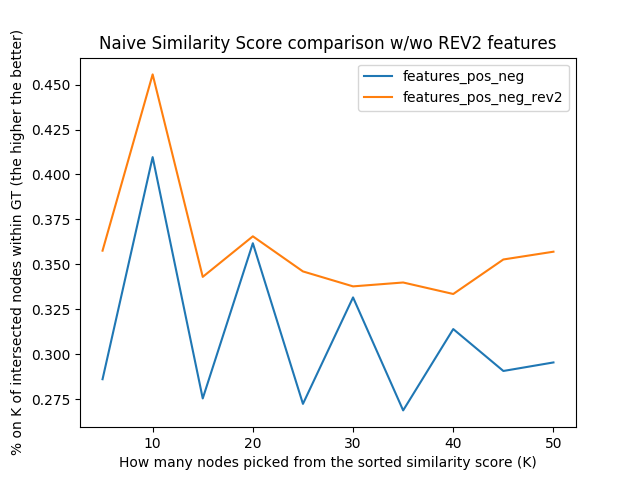
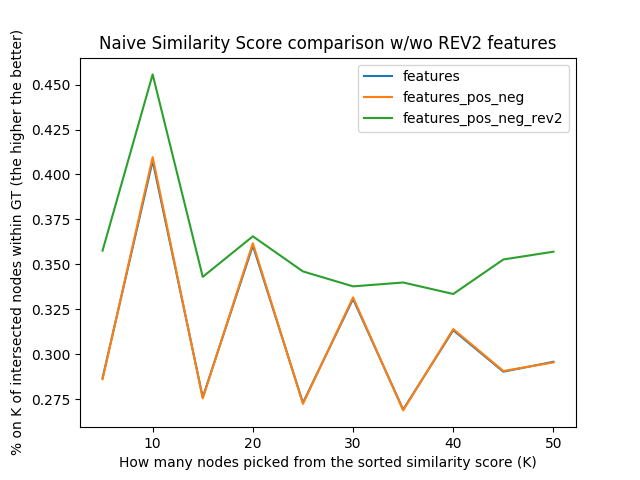
update more figures

diff --git a/analysis_sim_scores.py b/analysis_sim_scores.py
@@ -5,7 +5,7 @@ import numpy as np
 import networkx_utils as utils
 
 network = "alpha"
-all_features = ["features_pos_neg", "features_pos_neg_rev2"]
+all_features = ["features","features_pos_neg", "features_pos_neg_rev2"]
 
 N = [5,10,15,20,25,30,35,40,45,50]
 gt_user_types = ["good","bad"]
@@ -41,7 +41,11 @@ def plot_features():
                 feature_scores[n] = [scores]
 
     # legends = ["L2 Similar %","Cosine Similarity %"]
-    utils.plotSimScore(N, feature_scores.values(), all_features, "How many nodes picked from the sorted similarity score (K)", "% on K of intersected nodes within GT (the higher the better)", "Naive Similarity Score comparison w/wo REV2 features", "./diagram/naive_sim_score_analysis.png")
+    utils.plotSimScore(N, feature_scores.values(), all_features,
+                       "How many nodes picked from the sorted similarity score (K)",
+                       "% on K of intersected nodes within GT (the higher the better)",
+                       "Naive Similarity Score comparison w/wo REV2 features",
+                       "./diagram/naive_sim_score_analysis.png")
     print feature, gt_user_type, scores, N
 
 
@@ -73,7 +77,10 @@ def plot_full():
 
 
             legends = ["L2 Similar %","Cosine Similarity %"]
-            utils.plotSimScore(N, scores, legends, "How many nodes picked from the sorted similarity score (K)", "% on K of intersected nodes within GT (the higher the better)", "Comparison of performance of Cosine vs. L2 %s %s" % (feature, gt_user_type), "./diagram/cosine_l2_comparision_%s_%s.png" % (feature, gt_user_type))
+            utils.plotSimScore(N, scores, legends, "How many nodes picked from the sorted similarity score (K)",
+                               "% on K of intersected nodes within GT (the higher the better)",
+                               "Comparison of performance of Cosine vs. L2 %s %s" % (feature, gt_user_type),
+                               "./diagram/cosine_l2_comparision_%s_%s.png" % (feature, gt_user_type))
             print feature, gt_user_type, scores, N
 
 plot_full()
